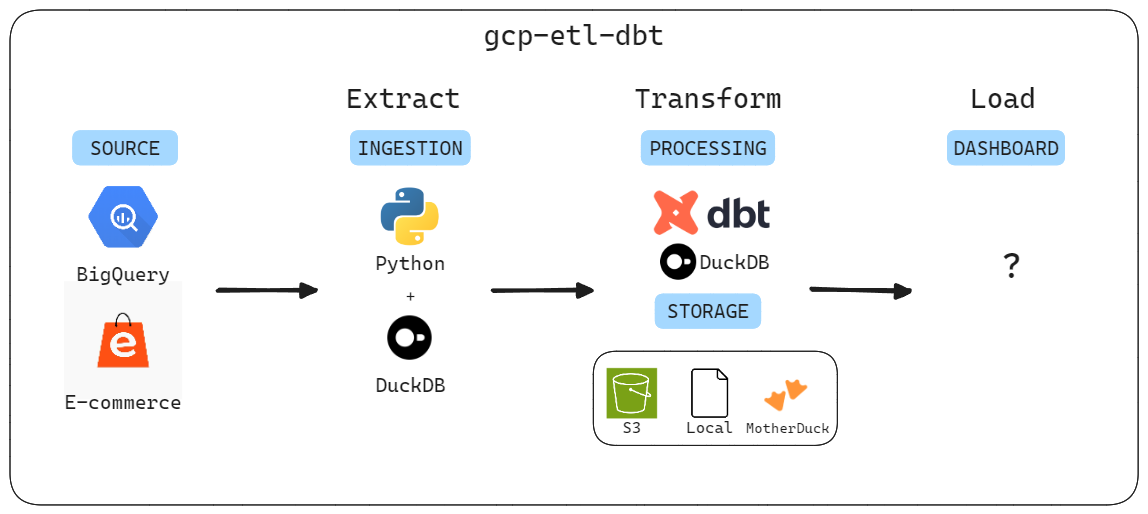
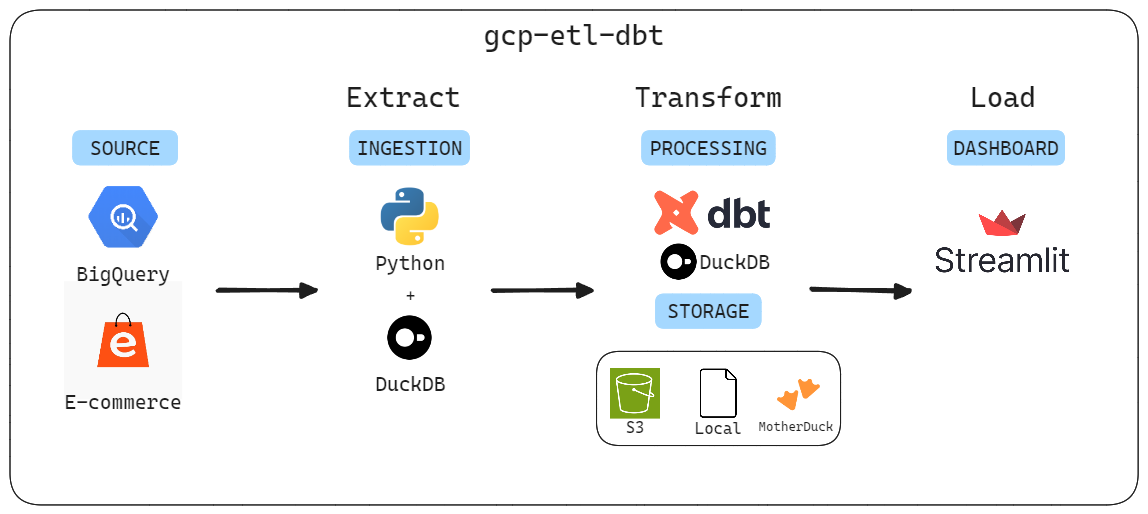
update img

diff --git a/dashboard/app.py b/dashboard/app.py
@@ -1,14 +1,18 @@
 import streamlit as st
 import pandas as pd
 import plotly.express as px
+import plotly.graph_objects as go
 import duckdb
 import os
-from datetime import datetime
+from datetime import datetime, timedelta
+
+# Set page config at the very beginning
+st.set_page_config(page_title="The Look E-commerce Dashboard", layout="wide")
 
 # DuckDB connection setup
 @st.cache_resource
 def get_duckdb_connection():
-    db_path = 'transform/gcp_etl_dbt/dbt.duckdb'  # Ensure this path is correct
+    db_path = 'transform/gcp_etl_dbt/dbt.duckdb'
     if not os.path.exists(db_path):
         st.error(f"Database file not found: {db_path}")
         st.stop()
@@ -28,104 +32,161 @@ def load_data(query):
         st.error(f"Error executing query: {str(e)}")
         return pd.DataFrame()
 
-# Define the queries for loading data from dbt models
-revenue_over_time_query = "SELECT * FROM main_gold.mart_revenue_over_time;"
-top_selling_products_query = "SELECT * FROM main_gold.mart_top_selling_products;"
-sales_by_category_query = "SELECT * FROM main_gold.mart_sales_by_category;"
-customer_demographics_query = "SELECT * FROM main_gold.mart_customer_demographics;"
-top_customers_query = "SELECT * FROM main_gold.mart_top_customers;"
-order_status_distribution_query = "SELECT * FROM main_gold.mart_order_status_distribution;"
-average_time_to_ship_query = "SELECT * FROM main_gold.mart_average_time_to_ship;"
-sales_by_country_query = "SELECT * FROM main_gold.mart_sales_by_country;"
+# Define queries
+queries = {
+    "revenue_over_time": "SELECT * FROM main_gold.mart_revenue_over_time;",
+    "top_selling_products": "SELECT * FROM main_gold.mart_top_selling_products;",
+    "sales_by_category": "SELECT * FROM main_gold.mart_sales_by_category;",
+    "customer_demographics": "SELECT * FROM main_gold.mart_customer_demographics;",
+    "top_customers": "SELECT * FROM main_gold.mart_top_customers;",
+    "order_status_distribution": "SELECT * FROM main_gold.mart_order_status_distribution;",
+    "average_time_to_ship": "SELECT * FROM main_gold.mart_average_time_to_ship;",
+    "sales_by_country": "SELECT * FROM main_gold.mart_sales_by_country;",
+    "sales_by_state": "SELECT * FROM main_gold.mart_sales_by_state;",
+}
 
 # Load all required tables
-revenue_over_time = load_data(revenue_over_time_query)
-top_selling_products = load_data(top_selling_products_query)
-sales_by_category = load_data(sales_by_category_query)
-customer_demographics = load_data(customer_demographics_query)
-top_customers = load_data(top_customers_query)
-order_status_distribution = load_data(order_status_distribution_query)
-average_time_to_ship = load_data(average_time_to_ship_query)
-sales_by_country = load_data(sales_by_country_query)
+data = {key: load_data(query) for key, query in queries.items()}
 
 # Set min_date and max_date from revenue_over_time
-min_date = revenue_over_time['date'].min()
-max_date = revenue_over_time['date'].max()
-
-if isinstance(min_date, pd.Timestamp) and isinstance(max_date, pd.Timestamp):
-    st.write(f"Min Date: {min_date}, Max Date: {max_date}")
-else:
-    st.error(f"Error: min_date and max_date are not datetime objects. Min Date: {min_date}, Max Date: {max_date}")
-    st.stop()
+min_date = data["revenue_over_time"]['date'].min()
+max_date = data["revenue_over_time"]['date'].max()
 
 st.title("The Look E-commerce Dashboard")
 
 # Date range selector
-start_date, end_date = st.date_input("Select date range", [min_date, max_date])
+col1, col2 = st.columns(2)
+with col1:
+    start_date = st.date_input("Start Date", min_date)
+with col2:
+    end_date = st.date_input("End Date", max_date)
 
 # Convert start_date and end_date to datetime
 start_date = pd.to_datetime(start_date)
 end_date = pd.to_datetime(end_date)
 
 # Filter data based on date range
-filtered_revenue_over_time = revenue_over_time[
-    (revenue_over_time['date'] >= start_date) & 
-    (revenue_over_time['date'] <= end_date)
+filtered_revenue_over_time = data["revenue_over_time"][
+    (data["revenue_over_time"]['date'] >= start_date) & 
+    (data["revenue_over_time"]['date'] <= end_date)
 ]
 
 # Sales Overview
 st.header("Sales Overview")
-col1, col2, col3 = st.columns(3)
+col1, col2, col3, col4 = st.columns(4)
 
 total_revenue = filtered_revenue_over_time['total_revenue'].sum()
-total_orders = len(revenue_over_time['date'].unique())  # Assuming each date corresponds to an order
-average_order_value = total_revenue / total_orders
+total_orders = len(filtered_revenue_over_time['date'].unique())
+average_order_value = total_revenue / total_orders if total_orders > 0 else 0
+revenue_growth = ((filtered_revenue_over_time['total_revenue'].iloc[-1] - filtered_revenue_over_time['total_revenue'].iloc[0]) / filtered_revenue_over_time['total_revenue'].iloc[0]) * 100
 
 col1.metric("Total Revenue", f"${total_revenue:,.2f}")
 col2.metric("Total Orders", f"{total_orders:,}")
 col3.metric("Average Order Value", f"${average_order_value:.2f}")
+col4.metric("Revenue Growth", f"{revenue_growth:.2f}%")
 
 # Revenue over time
 fig = px.line(filtered_revenue_over_time, x='date', y='total_revenue', title="Daily Revenue")
-st.plotly_chart(fig)
+fig.update_layout(xaxis_title="Date", yaxis_title="Revenue ($)")
+st.plotly_chart(fig, use_container_width=True)
 
 # Product Performance
 st.header("Product Performance")
 
-# Top selling products
-fig = px.bar(top_selling_products, x='product_name', y='total_items_sold', title="Top 10 Selling Products")
-st.plotly_chart(fig)
+col1, col2 = st.columns(2)
 
-# Sales by category
-fig = px.pie(sales_by_category, values='total_sales', names='category', title="Sales by Category")
-st.plotly_chart(fig)
+with col1:
+    # Top selling products
+    fig = px.bar(data["top_selling_products"], x='product_name', y='total_items_sold', title="Top 10 Selling Products")
+    fig.update_layout(xaxis_title="Product", yaxis_title="Items Sold")
+    st.plotly_chart(fig, use_container_width=True)
+
+with col2:
+    # Sales by category
+    fig = px.pie(data["sales_by_category"], values='total_sales', names='category', title="Sales by Category")
+    st.plotly_chart(fig, use_container_width=True)
 
 # Customer Analysis
 st.header("Customer Analysis")
 
-# Customer demographics
-fig = px.pie(customer_demographics, values='user_count', names='gender', title="Customer Gender Distribution")
-st.plotly_chart(fig)
+col1, col2 = st.columns(2)
 
-# Top customers by revenue
-fig = px.bar(top_customers, x='user_id', y='total_revenue', title="Top 10 Customers by Revenue")
-st.plotly_chart(fig)
+with col1:
+    # Customer demographics
+    fig = px.pie(data["customer_demographics"], values='user_count', names='gender', title="Customer Gender Distribution")
+    st.plotly_chart(fig, use_container_width=True)
+
+with col2:
+    # Top customers by revenue
+    fig = px.bar(data["top_customers"], x='user_id', y='total_revenue', title="Top 10 Customers by Revenue")
+    fig.update_layout(xaxis_title="User ID", yaxis_title="Total Revenue ($)")
+    st.plotly_chart(fig, use_container_width=True)
 
 # Order Fulfillment
 st.header("Order Fulfillment")
 
-# Order status distribution
-fig = px.pie(order_status_distribution, values='order_count', names='status', title="Order Status Distribution")
-st.plotly_chart(fig)
+col1, col2 = st.columns(2)
 
-# Average time to ship
-st.metric("Average Time to Ship", f"{average_time_to_ship['avg_ship_time'].iloc[0]:.2f} days")
+with col1:
+    # Order status distribution
+    fig = px.pie(data["order_status_distribution"], values='order_count', names='status', title="Order Status Distribution")
+    st.plotly_chart(fig, use_container_width=True)
+
+with col2:
+    # Average time to ship
+    avg_ship_time = data["average_time_to_ship"]['avg_ship_time'].iloc[0]
+    fig = go.Figure(go.Indicator(
+        mode = "gauge+number",
+        value = avg_ship_time,
+        title = {'text': "Average Time to Ship (Days)"},
+        gauge = {'axis': {'range': [None, 10]},
+                 'steps' : [
+                     {'range': [0, 3], 'color': "lightgreen"},
+                     {'range': [3, 7], 'color': "yellow"},
+                     {'range': [7, 10], 'color': "red"}],
+                 'threshold' : {'line': {'color': "red", 'width': 4}, 'thickness': 0.75, 'value': 7}}))
+    st.plotly_chart(fig, use_container_width=True)
 
 # Geographical Insights
 st.header("Geographical Insights")
 
-# Sales by country
-fig = px.bar(sales_by_country, x='country', y='total_sales', title="Sales by Country")
-st.plotly_chart(fig)
+col1, col2 = st.columns(2)
+
+with col1:
+    # Sales by country
+    fig = px.choropleth(data["sales_by_country"], locations='country', locationmode='country names', 
+                        color='total_sales', hover_name='country', color_continuous_scale="Viridis",
+                        title="Sales by Country")
+    st.plotly_chart(fig, use_container_width=True)
+
+with col2:
+    # Sales by state (assuming US states)
+    fig = px.choropleth(data["sales_by_state"], locations='state', locationmode='USA-states', 
+                        color='total_sales', hover_name='state', scope="usa", color_continuous_scale="Viridis",
+                        title="Sales by State (US)")
+    st.plotly_chart(fig, use_container_width=True)
+
+# Additional Insights
+st.header("Additional Insights")
+
+col1, col2 = st.columns(2)
+
+with col1:
+    # Monthly revenue trend
+    monthly_revenue = filtered_revenue_over_time.set_index('date').resample('M')['total_revenue'].sum().reset_index()
+    fig = px.line(monthly_revenue, x='date', y='total_revenue', title="Monthly Revenue Trend")
+    fig.update_layout(xaxis_title="Month", yaxis_title="Revenue ($)")
+    st.plotly_chart(fig, use_container_width=True)
+
+with col2:
+    # Day of week analysis
+    filtered_revenue_over_time['day_of_week'] = filtered_revenue_over_time['date'].dt.day_name()
+    day_of_week_revenue = filtered_revenue_over_time.groupby('day_of_week')['total_revenue'].mean().reset_index()
+    day_order = ['Monday', 'Tuesday', 'Wednesday', 'Thursday', 'Friday', 'Saturday', 'Sunday']
+    day_of_week_revenue['day_of_week'] = pd.Categorical(day_of_week_revenue['day_of_week'], categories=day_order, ordered=True)
+    day_of_week_revenue = day_of_week_revenue.sort_values('day_of_week')
+    fig = px.bar(day_of_week_revenue, x='day_of_week', y='total_revenue', title="Average Daily Revenue by Day of Week")
+    fig.update_layout(xaxis_title="Day of Week", yaxis_title="Average Revenue ($)")
+    st.plotly_chart(fig, use_container_width=True)
 
 st.write("Dashboard updated successfully!")
